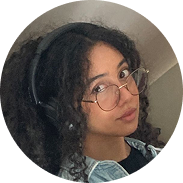
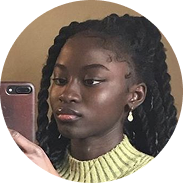
fix/volunteers

diff --git a/data/volunteers.ts b/data/volunteers.ts
@@ -2,38 +2,32 @@ export type Volunteer = {
     id: string;
     name: string;
     image: string;
-    role: string
 }
 
 export const volunteers: Volunteer[] = [
     {
-        id: "volunteer-1",
+        id: "volunteer",
         name: "Nome Sobrenome",
-        image: "/images/volunteers/volunteer1.png",
-        role: "Atuação"
+        image: "/images/volunteers/volunteer1.png"
     },
     {
         id: "volunteer",
         name: "Nome Sobrenome",
-        image: "/images/volunteers/volunteer2.png",
-        role: "Atuação"
+        image: "/images/volunteers/volunteer2.png"
     },
     {
         id: "volunteer",
         name: "Nome Sobrenome",
-        image: "/images/volunteers/volunteer3.png",
-        role: "Atuação"
+        image: "/images/volunteers/volunteer3.png"
     },
     {
         id: "volunteer",
         name: "Nome Sobrenome",
-        image: "/images/volunteers/volunteer4.png",
-        role: "Atuação"
+        image: "/images/volunteers/volunteer4.png"
     },
     {
         id: "volunteer",
         name: "Nome Sobrenome",
-        image: "/images/volunteers/volunteer5.png",
-        role: "Atuação"
-    }
+        image: "/images/volunteers/volunteer5.png"
+    },
 ]

diff --git a/app/globals.css b/app/globals.css
@@ -29,17 +29,3 @@ body {
   color: var(--foreground);
   font-family: var(--font-inter), "Inter", sans-serif;
 }
-
-@keyframes marquee {
-  from {
-    transform: translateX(0%);
-  }
-
-  to {
-    transform: translateX(-50%);
-  }
-}
-
-.animate-marquee {
-  animation: marquee 25s linear infinite;
-}
